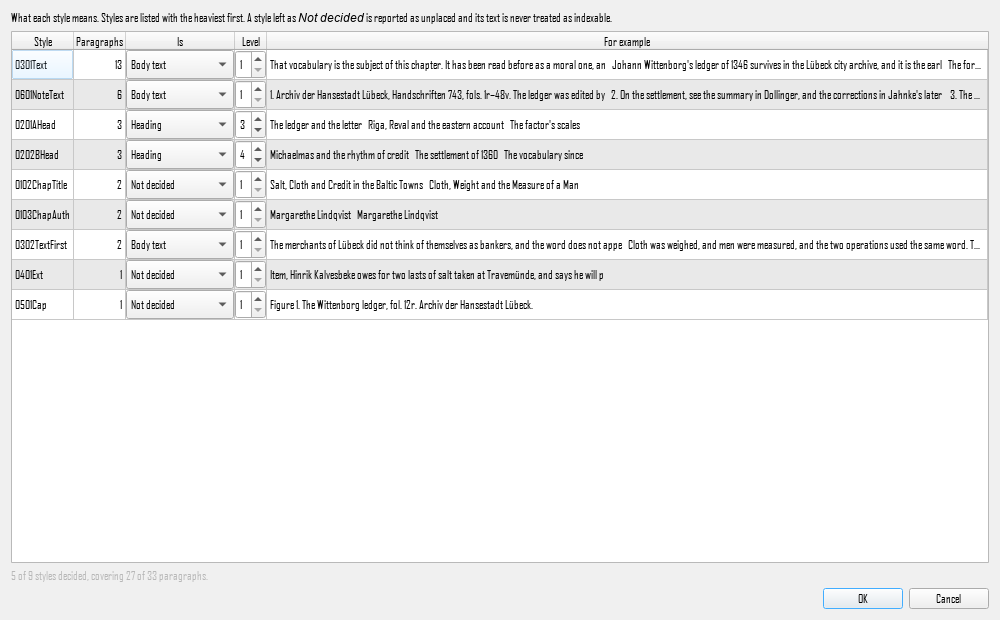
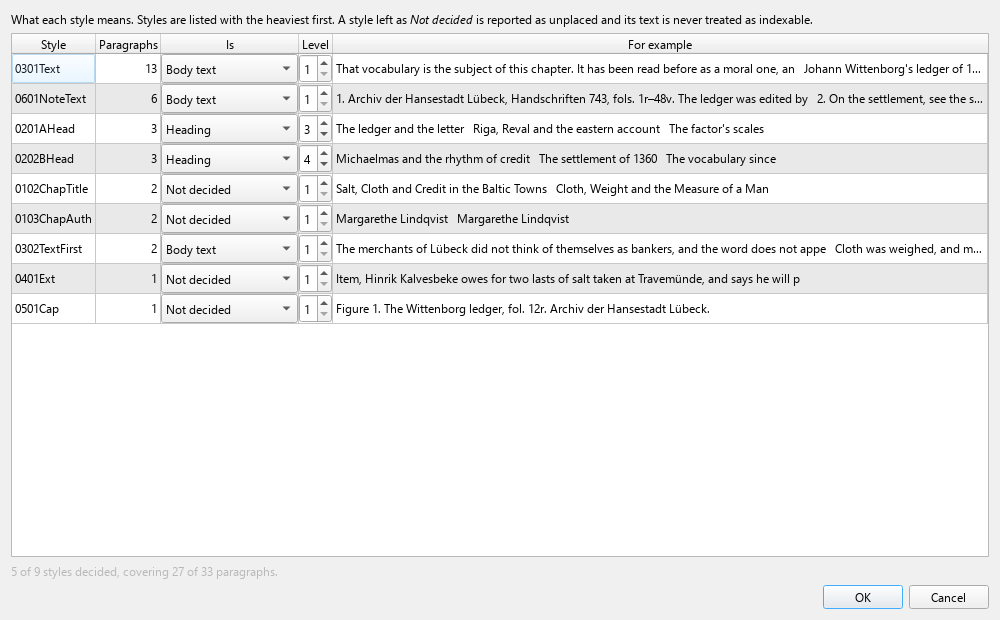
Guide figures: drawn in Segoe UI, and the script runs to the end again
Offscreen Qt resolves its default Sans Serif to the first font it finds,
Agency FB, so every figure was drawn in a condensed display face; the
script now sets Segoe UI, what Windows gives the application. It had also
stopped after eight of thirteen figures: the core's step 8 gave
GeneralPrefs a required settings argument, and the General page is now
filled as the menu fills it, through general_prefs(). All thirteen figures
rendered again. Found by the InDesign editor's guide figures (its 10a).

Changed region(s): [[0.0, 0.0, 0.992, 0.521], [0.0, 0.8887, 0.992, 0.9806]]

diff --git a/documentation/render_screenshots.py b/documentation/render_screenshots.py
@@ -62,6 +62,7 @@ sys.path.insert(0, str(HERE.parent / "src"))
 sys.path.insert(0, str(HERE))
 
 from PySide6.QtCore import QCoreApplication                    # noqa: E402
+from PySide6.QtGui import QFont                                # noqa: E402
 from PySide6.QtWidgets import QApplication                     # noqa: E402
 
 from sample_book import write_book                             # noqa: E402
@@ -119,6 +120,12 @@ def shoot(widget, name: str) -> Path:
 
 def main() -> int:
     app = QApplication.instance() or QApplication([])
+    # **The application's font, set.** Offscreen Qt resolves its default
+    # "Sans Serif" to the first family it finds alphabetically, which on
+    # Windows is Agency FB, a condensed display face; every figure up to
+    # 7 October 2026 was drawn in it. Segoe UI is what Windows gives the
+    # application. Found by the InDesign editor's guide (its step 10a).
+    app.setFont(QFont("Segoe UI", 9))
 
     settings_folder = isolate_settings()
 
@@ -235,7 +242,7 @@ def main() -> int:
     # name database lives. The same fault the wiring sweep was called in for,
     # arriving in the documentation instead of the application.
     from wordindex.check_prefs import CheckIndexPrefs
-    from wordindex.general_prefs import GeneralPrefs
+    from wordindex.general_prefs import general_prefs
     from wordindex.presentation_prefs import PresentationPrefs
     from wordindex.sort_prefs import SortPrefs
     from wordindex.toa_prefs import ToaPrefs
@@ -257,7 +264,10 @@ def main() -> int:
     os.environ["BOOKINDEXCORE_NAME_DB"] = (
         r"C:\Users\<your name>\AppData\Local\DH Indexing\shared\indexing.db")
     try:
-        prefs.populate_general_fields(GeneralPrefs().load())
+        # As the menu fills it (main_window), through the factory: since
+        # the core's step 8 GeneralPrefs takes its settings, and this line
+        # raised TypeError after eight of thirteen figures until 7 October.
+        prefs.populate_general_fields(general_prefs().load())
     finally:
         os.environ["BOOKINDEXCORE_NAME_DB"] = real
     prefs.resize(820, 640)

diff --git a/CHANGELOG.md b/CHANGELOG.md
@@ -5,6 +5,19 @@ The application does not exist yet; what is here are its seams.
 
 ## Unreleased
 
+### The User Guide's figures, in the application's font
+
+Every figure `documentation/render_screenshots.py` rendered was drawn in
+Agency FB: offscreen Qt resolves its default *Sans Serif* to the first font
+it finds, alphabetically. The script now sets Segoe UI, the font Windows
+gives the application, and the thirteen figures are rendered again. Found
+by the InDesign editor's guide figures (its step 10a).
+
+**And the script had stopped running again**, after eight of its thirteen
+figures: the core's step 8 gave `GeneralPrefs` a required settings argument
+and the script still called `GeneralPrefs()`. It now fills the General page
+as the menu does, through `general_prefs()`.
+
 ### A name's language comes from the core
 
 `NameDesk` asks the core's `HeadingLanguages` for a heading's language and
